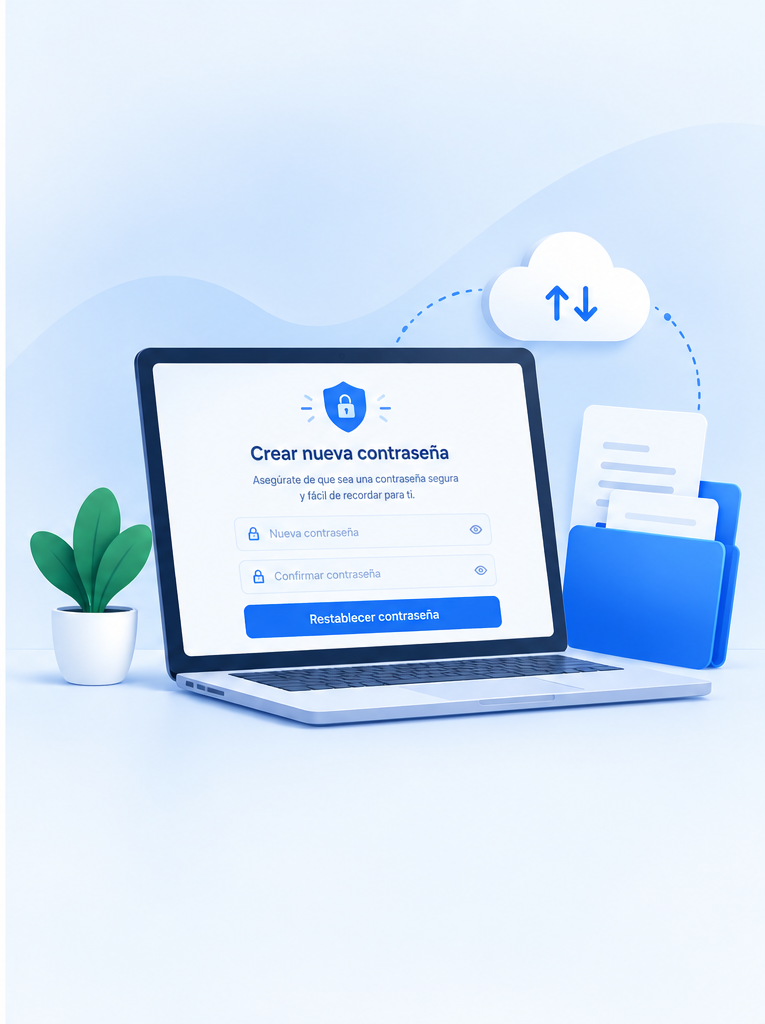
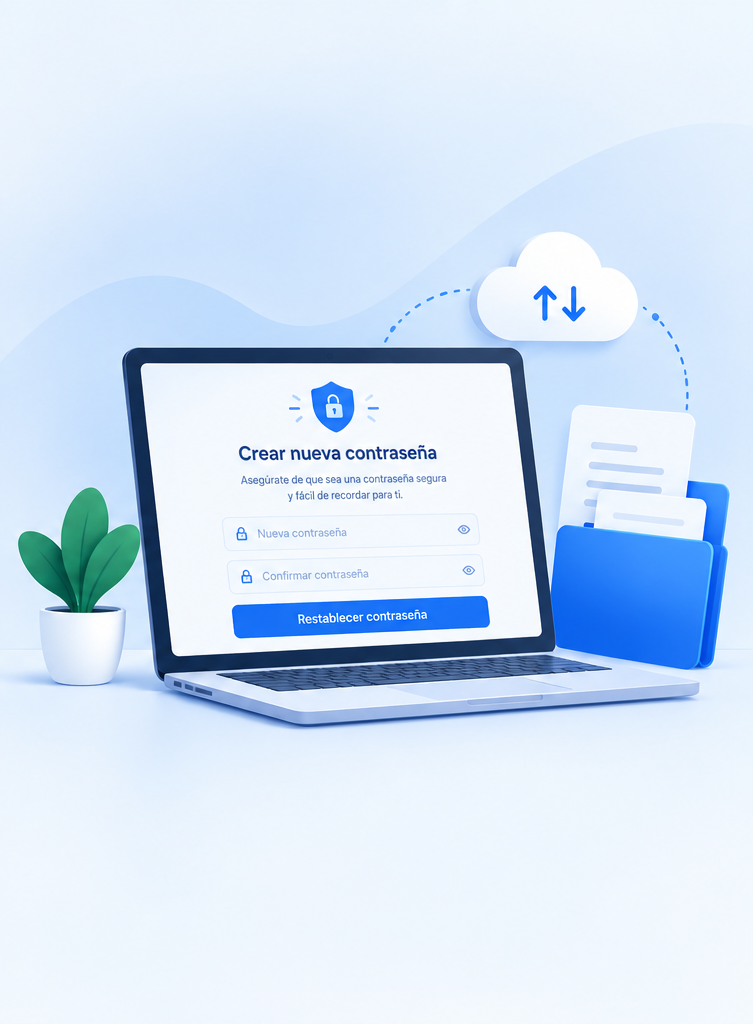
fix: login validations

diff --git a/app/Services/ResetCognitoPassword.php b/app/Services/ResetCognitoPassword.php
@@ -20,8 +20,9 @@ class ResetCognitoPassword
                 'status' => 'error',
                 'field' => 'email',
                 'message' => match ($e->getAwsErrorCode()) {
-                    'UserNotFoundException' => 'User not found.',
-                    'InvalidParameterException' => 'This user does not have a verified email or phone number.',
+                    'UserNotFoundException' => 'Usuario no encontrado.',
+                    'InvalidParameterException' => 'Este usuario no tiene un correo electrónico o teléfono verificado.',
+                    'LimitExceededException' => 'Se excedió el límite de intentos. Por favor, inténtalo de nuevo más tarde.',
                     default => throw $e,
                 },
             ];
@@ -37,13 +38,15 @@ class ResetCognitoPassword
         } catch (CognitoIdentityProviderException $e) {
             return [
                 'status' => 'error',
-                'field' => in_array($e->getAwsErrorCode(), ['CodeMismatchException', 'ExpiredCodeException'])
+                'field' => in_array($e->getAwsErrorCode(), ['CodeMismatchException', 'ExpiredCodeException', 'LimitExceededException'])
                     ? 'code'
                     : 'password',
                 'message' => match ($e->getAwsErrorCode()) {
-                    'CodeMismatchException' => 'Invalid verification code.',
-                    'ExpiredCodeException' => 'The verification code has expired.',
-                    'InvalidPasswordException' => 'The password does not meet Cognito requirements.',
+                    'CodeMismatchException' => 'Código de verificación inválido.',
+                    'ExpiredCodeException' => 'El código de verificación ha expirado.',
+                    'LimitExceededException' => 'Se excedió el límite de intentos. Por favor, inténtalo de nuevo más tarde.',
+                    'InvalidPasswordException' => 'La contraseña no cumple con los requisitos de Cognito.',
+                    'PasswordHistoryPolicyViolationException' => 'La contraseña ya fue utilizada anteriormente. Por favor, elige una diferente.',
                     default => throw $e,
                 },
             ];

diff --git a/resources/views/auth/confirm-password.blade.php b/resources/views/auth/confirm-password.blade.php
@@ -32,12 +32,19 @@
                     <form method="POST" action="{{ route('auth.confirm-forgot-password') }}" class="login-form">
                         @csrf
 
-                        <input type="text" name="code" placeholder="Código de verificación" class="form-control" required>
+                        <input type="text" name="code" placeholder="Código de verificación" class="form-control"
+                            required>
 
-                        <input type="password" name="password" placeholder="Nueva contraseña" class="form-control" required>
+                        <input type="password" name="password" placeholder="Nueva contraseña" class="form-control"
+                            required>
 
                         <input type="password" name="password_confirmation" placeholder="Confirmar nueva contraseña"
                             class="form-control" required>
+                        <div class="form-group">
+                            <a href="{{ route('auth.login') }}">
+                                Volver al inicio de sesión
+                            </a>
+                        </div>
 
                         <button type="submit" class="btn btn-primary">
                             Restablecer contraseña

diff --git a/app/Http/Middleware/CognitoAuth.php b/app/Http/Middleware/CognitoAuth.php
@@ -31,7 +31,7 @@ class CognitoAuth
 
             return redirect()
                 ->route('auth.login')
-                ->withErrors(['error' => 'Your session has expired.']);
+                ->withErrors(['error' => 'Tu sesión ha expirado.']);
         }
 
         try {
@@ -41,7 +41,7 @@ class CognitoAuth
             $request->session()->regenerateToken();
 
             return redirect()->route('auth.login')
-                ->withErrors(['error'=> 'Invalid session, please log in again.']);
+                ->withErrors(['error'=> 'Sesión inválida, por favor inicia sesión nuevamente.']);
         }
         $user = User::where('cognito_sub', $claims->sub)->first();
         Auth::login($user);

diff --git a/resources/views/auth/form.blade.php b/resources/views/auth/form.blade.php
@@ -101,7 +101,7 @@
             Actualizar
             @endif
             @if($type != 'new-password')
-                {{ $type === 'register' ? 'Registrarse' : 'Iniciar sesión' }}
+                {{ $type === 'register' ? 'Registrar usuario' : 'Iniciar sesión' }}
             @endif
         
     </button>

diff --git a/resources/views/recyclebin/index.blade.php b/resources/views/recyclebin/index.blade.php
@@ -5,7 +5,7 @@
         <h1>Papelera de reciclaje</h1>
 
         <div class="row">
-            <div class="col-md-8">
+            <div class="col-md-12">
                 @if ($files->isEmpty())
                     <p>No se encontraron archivos.</p>
                 @else

diff --git a/resources/views/auth/register.blade.php b/resources/views/auth/register.blade.php
@@ -5,6 +5,7 @@
 
     <div class="container register-page">
         <div class="row">
+            <h2>Registrar nuevo usuario</h2>
             <div class="col-md-6 register-container">
 
                 @include('auth.form', [
